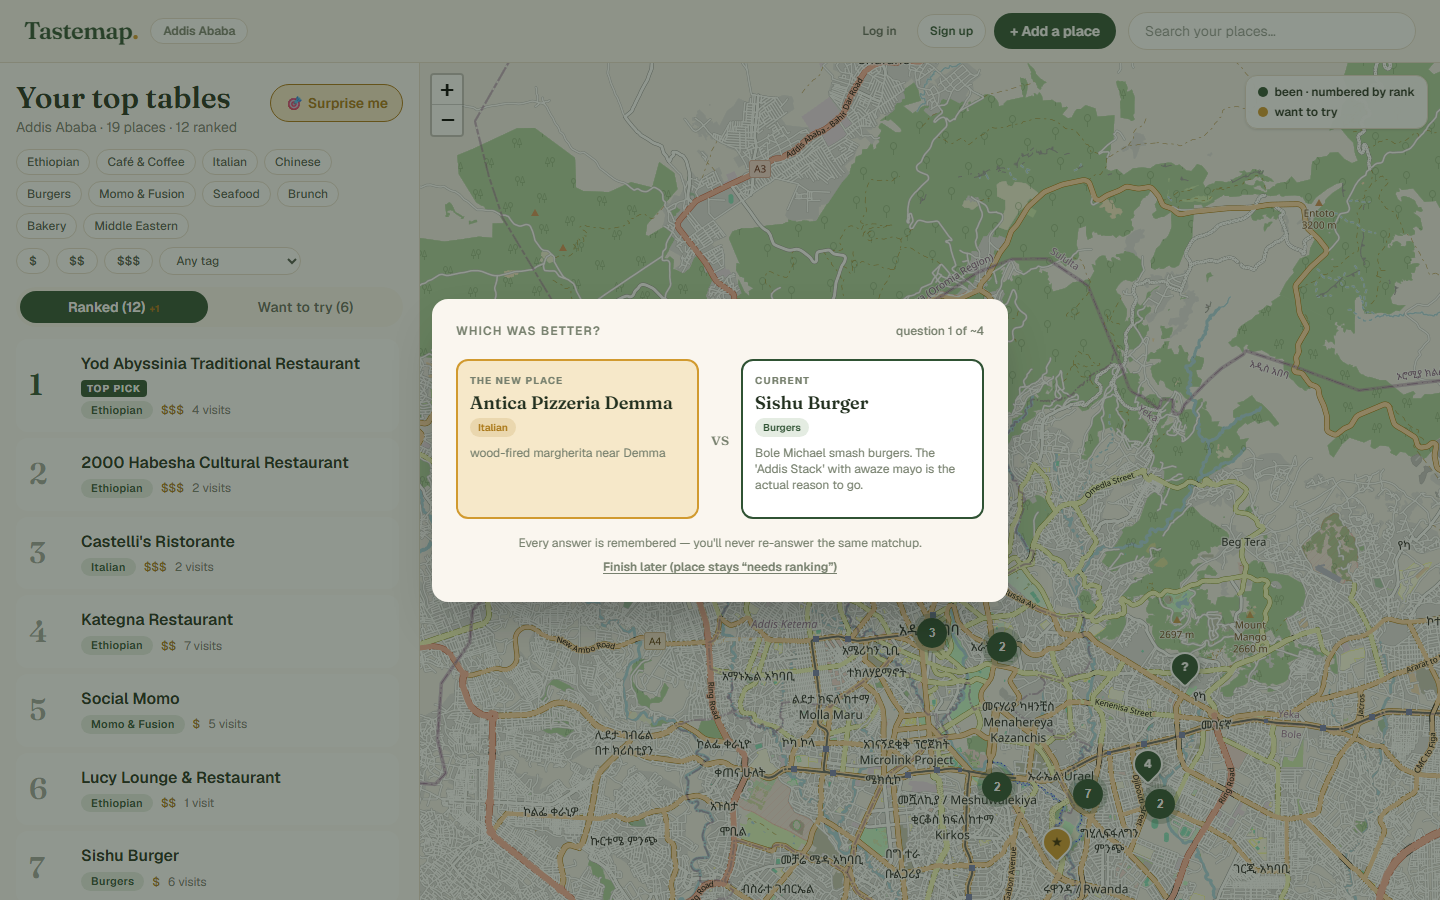
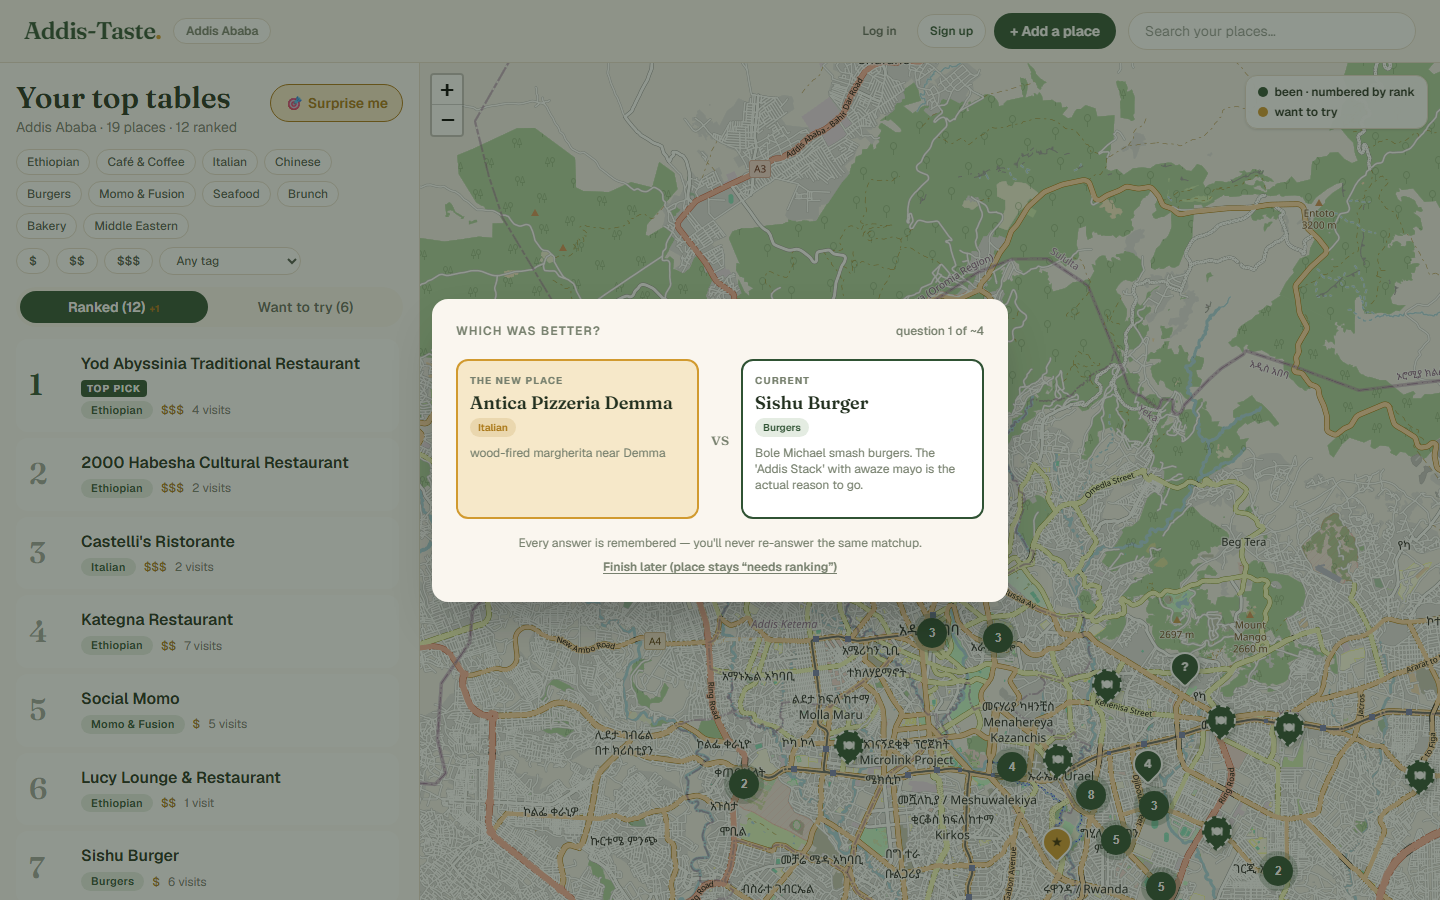
readme rewritten for addis-taste, regenerated screenshots

diff --git a/README.md b/README.md
@@ -1,11 +1,11 @@
-# Tastemap — Addis Ababa
+# Addis-Taste — Addis Ababa
 
-A restaurant map and ranking app for Addis Ababa, Ethiopia. Log the places you've eaten, rank them through quick head-to-head comparisons ("which was better?"), and keep a map of everything you still want to try.
+A restaurant map and ranking app for Addis Ababa, Ethiopia. Log the places you've eaten, rank them through quick head-to-head comparisons ("which was better?"), keep a map of everything you still want to try — and now see how each place actually rates on [beU](https://beu.com.et) delivery.
 
 This is my take on the [Frontend Mentor "restaurant ranking" challenge](https://www.frontendmentor.io), rebuilt for my own city instead of the London sample data. I reconstructed the brief from other builders' repos (details down in Credits) and wrote my own product spec, seed data, and design docs for Addis — they all live in [`docs/`](docs).
 
 > [!NOTE]
-> To see how chaotic a project like this really was, look at the [commit history](https://github.com/kidus-23/tastemap/commits/main) — it spans a few months, from a half-finished ranking module to the finished app.
+> To see how chaotic a project like this really was, look at the [commit history](https://github.com/kidus-23/addis-taste/commits/main) — it spans a few months, from a half-finished ranking module to the finished app.
 
 ## Screenshots
 
@@ -13,7 +13,7 @@ This is my take on the [Frontend Mentor "restaurant ranking" challenge](https://
 
 ![Desktop dashboard](docs/screenshots/dashboard-desktop.png)
 
-**Place detail** (opened from either the list or the map):
+**Place detail** (opened from either the list or the map) — with the beU enrichment when one exists:
 
 ![Place detail](docs/screenshots/detail-desktop.png)
 
@@ -38,9 +38,24 @@ Everyone rates restaurants on a one-to-five scale, and it stops being meaningful
 
 So I removed ratings. A place's rank comes out of little head-to-head questions — the app computes ⌈log₂(n+1)⌉ matchups via binary insertion, so each place lands in the list after roughly a handful of them. The exact code path is `deriveRankedOrder` / `nextComparison` / `settleSlot` in [`src/lib/ranking.ts`](src/lib/ranking.ts) and, honestly, that file is the heart of the app.
 
+If you *want* stars, the map has them — they just come from other people. See the next section.
+
+## beU-powered map cards
+
+beU is Addis Ababa's homegrown food-delivery platform, so it carries exactly the signal my seed list lacks: how a place holds up when it's ordered from, across hundreds of real customers.
+
+Toggling **🍽 beU favorites** (bottom-right of the map) overlays the top-40 most-ordered venues from my snapshot as dashed pins. Tapping one opens a small pop-out card: star average, order count, one attributed reviewer quote, and a 🧭 Directions link (Google Maps, resolving the actual venue — never bare coordinates). "⌄ More" expands the card in place into the five-star histogram and up to three quotes.
+
+Where a beU venue is unambiguously one of my own ranked places (matching runs on distinctive-name-token similarity, so "Sishu Burger" never attaches itself to just any burger joint), the reward is richer:
+
+- the **detail sheet** gains an "On beU" block — average, histogram, top quotes, directions;
+- the card itself links straight into that detail sheet.
+
+The data is a **one-time snapshot** (`retrieved 2026-10-07`, `src/data/beu-snapshot.json`), not a live proxy: nothing in the app talks to beU's API at runtime, and there's no rate limit to hit or outage to leak. The import script that produced it (`scripts/import-beu.mjs`, rerunnable) strips every identity field except reviewer **first name**, keeps text/rating/what-they-ate, and its selftest proves it — no phones, emails or tokens ever reach the repo (`scripts/verify-beu.ts` re-checks the snapshot on demand).
+
 ## How it was built
 
-I started this in May 2026 as a stack of notes and a hand-drawn sketch of a ranked list, mostly to answer one question I kept arguing about with myself: "do ratings work when the thing being rated is food you re-visit?" Short version — they don't. So Tastemap's whole premise became: never ask for a score, ask for comparisons between things you've already been to.
+I started this in May 2026 as a stack of notes and a hand-drawn sketch of a ranked list, mostly to answer one question I kept arguing about with myself: "do ratings work when the thing being rated is food you re-visit?" Short version — they don't. So Addis-Taste's whole premise became: never ask for a score, ask for comparisons between things you've already been to.
 
 The first thing I actually got working was the pure ranking module — no UI, just TypeScript in `src/lib/ranking.ts`, with a script that derived an order from a fake pile of matchups and printed it. Once that could place a new venue in the right slot, everything else was scaffolding around it.
 
@@ -48,8 +63,10 @@ A few decisions worth explaining, since they cost me the most time:
 
 - **The ranking is derivation-only.** There's no `position` you can argue with in the UI — the server recomputes it from the stored comparison graph every time. When two places are perfectly even in the graph, the most recent result between them stands, and the list just says so ("tied — settle it with a new answer"). That trade-off showed up in `docs/design-challenges.md` before I wrote a line of UI.
 - **Guest mode comes first.** Every "what if" feature check on a half-built app is painful if you need a database running. The Addis Ababa seed (12 ranked been places, 6 want-to-try, 25 prior matchups — real venues, my own picks) lives in `src/data/addis-seed.ts`, loads straight into a Zustand store with localStorage, and never talks to the DB. That's also why the demo is useful: you open the app and it's an *interesting* app, not an empty one.
+- **The beU data is a snapshot, not a proxy.** First attempt at the matcher over-matched wildly — 41 venues proudly "seed-matched" because "burger" is in everyone's name. The matcher now scores *distinctive* tokens only (branch names like "Bole"/"|22| Piassa" stripped, generic food words stoplisted), live matching runs in `src/lib/beu.ts` with the exact same rules the importer used, and the snapshot captures only venues with real order volume behind their ratings (seed-matches exempt — Tomoca has one beU order and it's shown, honestly labeled).
 - **No frills on map/geocoding.** Leaflet + OpenStreetMap tiles + leaflet.markercluster, all keyless. Geocoding goes through Nominatim proxied by one small API route (`src/app/api/geocode`) so we control the User-Agent it's sent with (the usage policy requires it), with a manual "drop the pin" fallback when the street address isn't in OSM. There's no API key anywhere in the repo because it's nowhere in the app.
 - **Auth is boring on purpose.** `jose` + bcryptjs, one httpOnly cookie, JS routes for signup/login/logout and an `/api/places` + `/api/compare` pair. Same ranking math runs server-side in `src/lib/place-service.ts` — a good check that `ranking.ts` really was framework-free.
+- **The boring harden-at-the-edging pass ships too.** `next.config.ts` sets a pragmatic CSP (no nonces, but tiles/fonts/connection pinned), `X-Content-Type-Options`, `X-Frame-Options: DENY` and `Referrer-Policy`; `src/proxy.ts` rate-limits login/signup to 10 attempts per 5 minutes per IP (Next 16 renamed middleware to proxy).
 
 ### Bugs I had to fix (all hindsight lessons)
 
@@ -61,8 +78,9 @@ A few decisions worth explaining, since they cost me the most time:
 - Top bar overflow on ≤360 px when both auth buttons and the search field render — the search drops to its second row below sm.
 - The map used to boot inside the dashboard's zero-height "initializing" state — Leaflet built its whole tile lattice collapsed and never recovered. It now waits for a real layout before creating the map, and a ResizeObserver feeds it `invalidateSize` ever after.
 - The list showed the *stored* position, which only the just-settled place ever gets — so when a new place took #1, the old #1 also kept showing "1". All ranks (list, pin labels, detail sheet) now come straight from the derived head-to-head order.
+- The beU pop-out card closed itself the moment you tapped "⌄ More": it floats inside the Leaflet container, so the tap bubbled to the map's own click-to-close. `L.DomEvent.disableClickPropagation` on the card fixed it — the classic cost of embedding your own overlay in someone else's widget.
 
-Every change is pinned down headlessly with `npm run verify` (two scripts: ranking invariants and guest-flow semantics). If something UI-side could go wrong in a session, the verify scripts cover where it came from.
+Every change is pinned down headlessly with `npm run verify` (two scripts: ranking invariants and guest-flow semantics). If something UI-side could go wrong in a session, the verify scripts cover where it came from. The beU layer has its own gate: `npx tsx scripts/verify-beu.ts` (data integrity, PII scrub, directions URLs, matching).
 
 ### Two features of my own (from the challenge brief's open decisions)
 
@@ -82,18 +100,19 @@ Both are written up in [`docs/design-challenges.md`](docs/design-challenges.md) 
 | Auth       | Custom JWT sessions (`jose`, httpOnly cookies, bcryptjs hashing) |
 | Map        | Leaflet + leaflet.markercluster, OpenStreetMap tiles (keyless) |
 | Geocoding  | Nominatim (keyless, a proper User-Agent, manual pin-drop fallback) |
+| Delivery data | One-time beU snapshot (`scripts/import-beu.mjs` → `src/data/beu-snapshot.json`), static-imported, PII-scrubbed |
 | Guest mode | Fully client-side — Addis Ababa seed dataset in Zustand + localStorage, never touches the database |
 
 ## Run it yourself
 
 ```bash
-git clone https://github.com/kidus-23/tastemap.git
-cd tastemap
+git clone https://github.com/kidus-23/addis-taste.git
+cd addis-taste
 npm install
 cp .env.example .env      # set DATABASE_URL (a Postgres 17+ instance)
 docker compose up -d      # or your own Postgres
 npm run db:push           # create the tables
-npm run db:seed           # optional: demo account — demo@tastemap.et / tastemap-demo
+npm run db:seed           # optional: demo account — demo@addistaste.et / addistaste-demo
 npm run dev
 ```
 
@@ -102,7 +121,9 @@ Then open [http://localhost:3000](http://localhost:3000) and hit **Try as guest*
 Before claiming anything works, I keep two gates:
 
 - `npm run verify` — headless ranking + guest-flow checks (these catch the ranking math bugs before a browser does)
-- and then make sure `npm run build`, `npx tsc --noEmit` and `npm run lint` are all clean too
+- `npx tsx scripts/verify-beu.ts` — snapshot integrity, PII scrub, directions-URL and matching checks
+
+and then make sure `npm run build`, `npx tsc --noEmit` and `npm run lint` are all clean too. (`npm run build` also requires regenerating the Prisma client — `npm install` does — and the screenshots in this README come from `scripts/screenshot.cjs`, run against `npm run start` with the DB up.)
 
 ## What's in the repo
 
@@ -112,14 +133,17 @@ Before claiming anything works, I keep two gates:
 │   ├── core-requirements.md      # features + their acceptance criteria
 │   ├── design-challenges.md      # rationale for the 3 "design it yourself" calls
 │   ├── technical-requirements.md
+│   ├── screenshots/              # the images above, regenerated by scripts/screenshot.cjs
 │   └── data/                     # the Addis seed data as CSV, its derivation
 ├── prisma/                       # schema + demo-account seed
 ├── src/
 │   ├── app/                      # Next routes: landing, dashboard, API handlers
 │   ├── components/               # Leaflet panel, list cards, detail sheet, dialogs…
-│   ├── lib/                      # ranking.ts, store, auth, server actions
-│   └── data/addis-seed.ts        # guest dataset: 18 places + 25 matchups
-├── scripts/                      # verify scripts + the screenshot generator
+│   ├── lib/                      # ranking.ts, beu.ts, store, auth, server actions
+│   ├── proxy.ts                  # login/signup rate limiting
+│   ├── data/addis-seed.ts        # guest dataset: 18 places + 25 matchups
+│   └── data/beu-snapshot.json    # PII-scrubbed beU snapshot (retrieved 2026-10-07)
+├── scripts/                      # verify scripts + beU importer + screenshot generator
 └── docker-compose.yml            # local Postgres
 ```
 
@@ -127,9 +151,13 @@ Before claiming anything works, I keep two gates:
 
 The seed dataset is real places — Yod Abyssinia, 2000 Habesha, Castelli's, Tomoca, Kaldi's, Sishu Burger, Social Momo, Sichuan, Lucy Lounge, Makush, Kategna, Taitu Hotel and a few more — with coordinates out to neighborhood level (Bole, Kazanchis, Piassa, Old Airport, Gerji, Sarbet). Where I got it and how each prior matchup was chosen: [`docs/data/README.md`](docs/data/README.md). The CSV in there regenerates straight from `src/data/addis-seed.ts`, so the seed stays one source of truth.
 
+The beU layer has its own provenance: it's a one-time capture of beU's Addis Ababa catalog (their public developer API, zone 1), taken 2026-10-07 by `scripts/import-beu.mjs` — 42 venues in the snapshot: the top ~40 by order-weighted volume plus 2 seed matches. Only first names, dates, ratings, dishes and review text survive the import; everything identifying anyone is dropped before the JSON is ever written. **I am not affiliated with beU**; the data is theirs and used here for a personal, non-commercial demo. Say hi to their app instead — it delivers.
+
 ## Credits
 
 - [Frontend Mentor](https://www.frontendmentor.io) challenge — restaurant ranking app. (`Mduduzi-Ndlovu1/tastemap` and `suman-hazra/tastemapsf`'s write-ups were my main cues for reconstructing the brief — thanks.)
 - Map tiles © [OpenStreetMap](https://www.openstreetmap.org/copyright) contributors.
 - Geocoding by [Nominatim](https://operations.osmfoundation.org/policies/nominatim/) — used sparingly per their usage policy.
+- beU delivery data: one-time snapshot of their Addis Ababa catalog; reviewer identities stripped to first names at import.
+- Agent-rules files (`AGENTS.md`/`CLAUDE.md`) were removed from the repo — LLM-builder scaffolding, not product.
 - Addis Ababa seed data is invented. Places are real; the opinions are mine.
